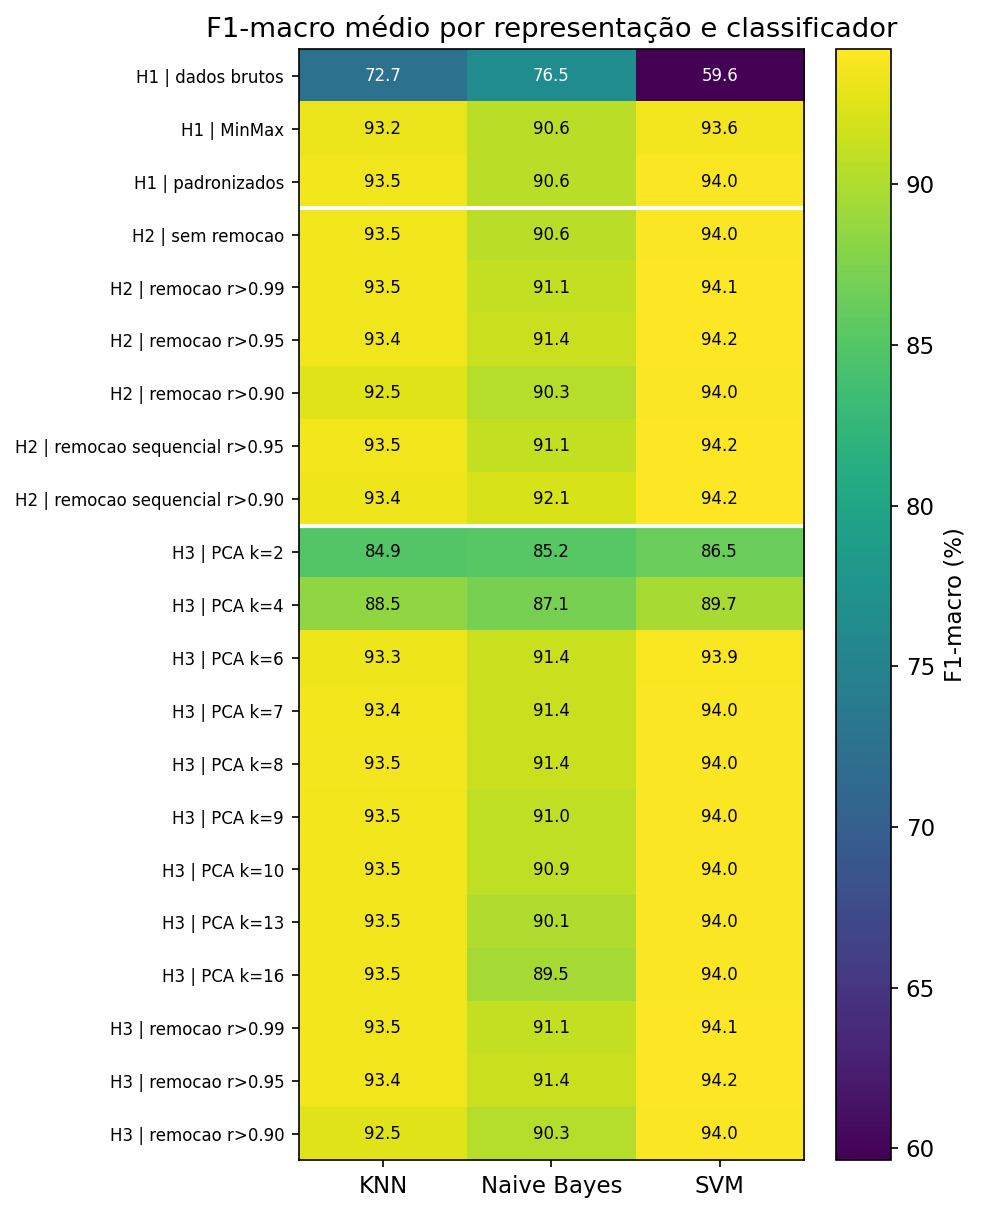
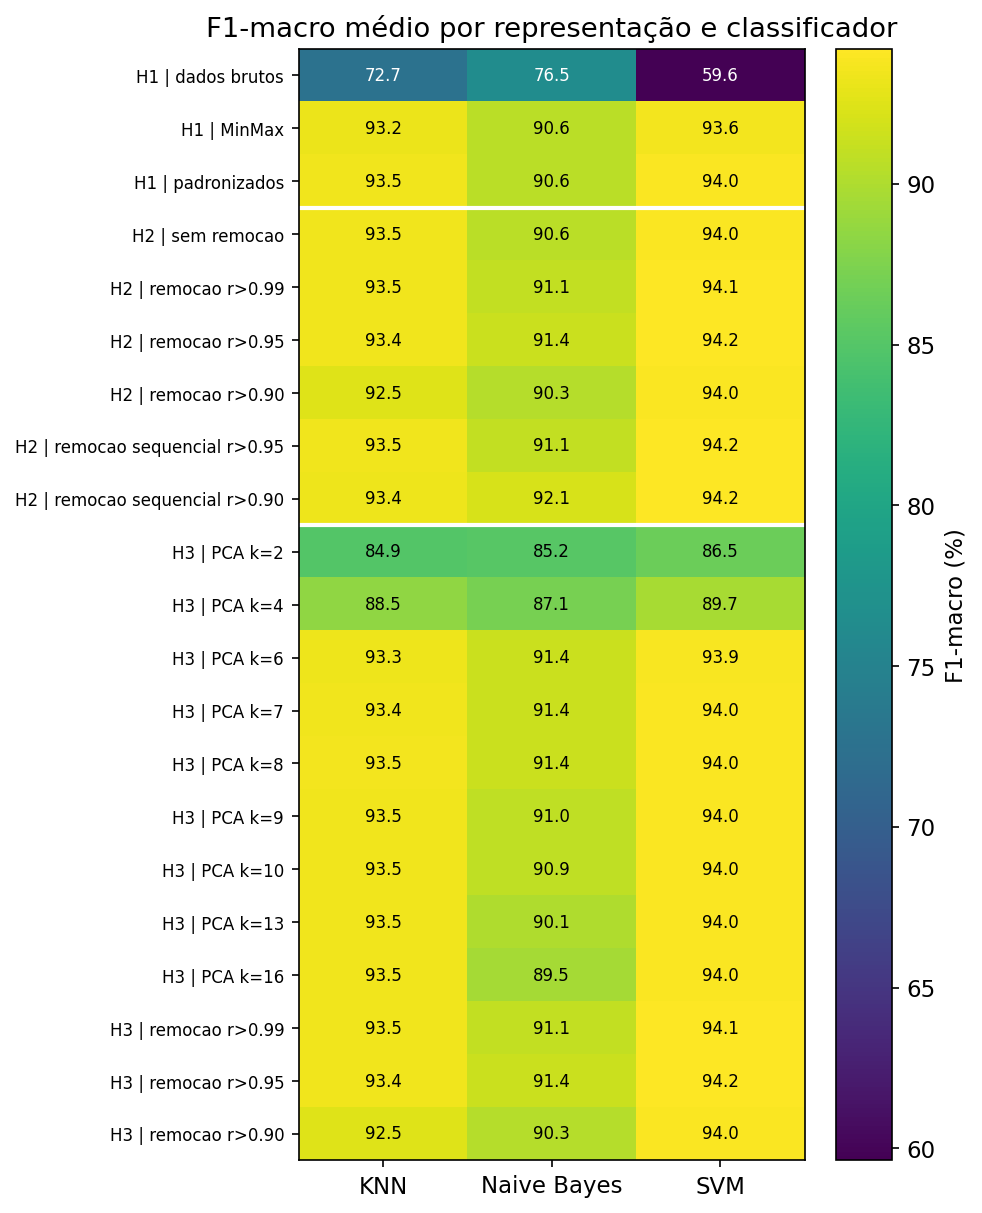
revisao do relatorio e slides: teste t corrigido na H3 e ajustes
- comparacao geral: "Melhor H3" escolhe so entre as representacoes de PCA
- analise H3: teste t corrigido de Nadeau e Bengio (mesmo da H2)
- relatorio e slides: NB d=9 sem significancia, H2 confirmada so em 0,99 e 0,95,
  ganho da escala de 21 a 34 p.p., ressalva para k<=4 e pequenos ajustes de texto

diff --git a/relatorio.tex b/relatorio.tex
@@ -55,14 +55,15 @@ todos com hiperparâmetros padrão (sem ajuste, limitação discutida na Seção
     \item \textbf{H2 (redundância):} remoção do segundo atributo de cada par com correlação de Pearson $|r|>0{,}99$, $0{,}95$ e $0{,}90$ sobre os dados 
     padronizados, comparada aos 16 atributos padronizados. Como controles, avaliamos 20 remoções aleatórias do mesmo tamanho e uma variante sequencial da 
     regra (que compara cada atributo apenas com os já mantidos).
-    \item \textbf{H3 (PCA vs.\ remoção):} PCA com o mesmo número de dimensões restante em cada limiar da H2.
+    \item \textbf{H3 (PCA vs.\ remoção):} PCA sobre os dados padronizados com $k \in \{2, 4, 6, 7, 8, 9, 10, 13, 16\}$
+    componentes, incluindo o mesmo número de dimensões restante em cada limiar da H2 (7, 9 e 13).
 \end{itemize}
 
 \textbf{Protocolo e métricas.} Adotamos validação cruzada estratificada com 5 \textit{folds} e 3 repetições (15 execuções por configuração; 
 \texttt{random\_state=42}), com todas as transformações ajustadas apenas no treino de cada \textit{fold} dentro de um \texttt{Pipeline}. Reportamos 
 média $\pm$ desvio padrão (DP) do F1-macro (métrica principal), além de acurácia, tempo de treino/predição e matrizes de confusão agregadas. As 
-comparações pareadas \textit{fold} a \textit{fold} usam o teste $t$ corrigido de Nadeau e Bengio~\cite{nadeau2003} na H2 ($p<0{,}05$) e o teste 
-de Wilcoxon na H3.
+comparações pareadas \textit{fold} a \textit{fold} da H2 e da H3 usam o teste $t$ corrigido de Nadeau e Bengio~\cite{nadeau2003} ($p<0{,}05$),
+que considera a dependência entre \textit{folds} causada pela sobreposição dos conjuntos de treino.
 
 %% ====================================================================
 \section{Resultados e Discussão}
@@ -104,10 +105,11 @@ o KNN ganhou $+20{,}81$~p.p.\ com menor variância entre \textit{folds}.
 
 \textbf{Naive Bayes e avaliação da H1.} O ganho de $+14{,}13$~p.p.\ na configuração padrão decorre de um artefato numérico do \texttt{var\_smoothing=1e-9}, 
 que soma $10^{-9}$ da maior variância (\texttt{ConvexArea}, $8{,}9\times 10^8$) a todos os atributos, distorcendo variáveis decimais. Com 
-\texttt{var\_smoothing=0}, o desempenho é idêntico nas três escalas ($90{,}63\% \pm 0{,}56\%$). A H1 é confirmada teoricamente, mas a padronização 
-segue recomendável na prática para neutralizar esse viés em bases com variâncias heterogêneas.
+\texttt{var\_smoothing=0}, o desempenho é idêntico nas três escalas ($90{,}63\% \pm 0{,}56\%$). Com a configuração padrão, o critério de refutação
+seria atingido; isolado esse artefato, a H1 é confirmada. Ainda assim, a padronização segue recomendável na prática para neutralizar esse viés em bases
+com variâncias heterogêneas.
 
-\subsection{Remoção de atributos redundantes (H2)}
+\subsection{Remoção de atributos redundantes (H2)}\label{sec:h2}
 % Pessoa 2. Código: codigos/h2_remocao.py e codigos/analise_h2.py.
 
 Aplicada aos 16 atributos padronizados, a regra de correlação mantém 13, 9 e 7 atributos nos limiares $|r|>0{,}99$, $0{,}95$ e $0{,}90$ 
@@ -133,13 +135,13 @@ entre $-0{,}10$ e $+0{,}16$~p.p.\ (sem significância), frente a perdas médias 
 \textbf{Limiar $0{,}90$ e avaliação da H2.} Em $|r|>0{,}90$, o KNN perde $0{,}99$~p.p.\ ($p<0{,}001$, confundindo Dermason com Sira) e o ganho do Naive 
 Bayes desaparece devido a uma remoção em cadeia: \texttt{ShapeFactor1} é descartado por correlação com \texttt{MinorAxisLength} (que também sai), embora 
 tenha $|r|\le 0{,}85$ com os atributos mantidos. A variante sequencial (8 atributos) preserva \texttt{ShapeFactor1}, mantém KNN e SVM estáveis ($-0{,}13$ 
-e $+0{,}18$~p.p.) e produz o maior ganho do Naive Bayes ($+1{,}43$~p.p., 15/15 \textit{folds}). A H2 é confirmada, mas com efeito pequeno ($0{,}45$ a 
-$1{,}43$~p.p.) e sensível à regra gulosa de descarte.
+e $+0{,}18$~p.p.) e produz o maior ganho do Naive Bayes ($+1{,}43$~p.p., 15/15 \textit{folds}). A H2 é confirmada nos limiares $0{,}99$ e $0{,}95$ e refutada em
+$0{,}90$ pela regra original, com efeito pequeno ($0{,}45$ a $1{,}43$~p.p.) e sensível à regra gulosa de descarte.
 
 \subsection{PCA $\times$ remoção de atributos com a mesma dimensão (H3)}
 % Pessoa 3. Figura já inserida; escrever a análise abaixo dela.
-Figura~\ref{fig:h3} compara o PCA (de $k=2$ a $16$ componentes) com a remoção por correlação em igualdade de dimensão ($d \in \{7, 9, 13\}$), avaliada fold a 
-fold pelo teste pareado de Wilcoxon.
+A Figura~\ref{fig:h3} compara o PCA (de $k=2$ a $16$ componentes) com a remoção por correlação em igualdade de dimensão ($d \in \{7, 9, 13\}$), avaliada
+\textit{fold} a \textit{fold} pelo teste $t$ corrigido.
 
 \begin{figure}[htbp]
     \centering
@@ -151,22 +153,22 @@ fold pelo teste pareado de Wilcoxon.
 
 \paragraph{Comparação por dimensão.}
 O PCA superou a remoção apenas na redução mais agressiva ($d=7$, correspondente a $|r|>0{,}90$), com ganhos de $+0{,}89$ p.p.\ no KNN ($93{,}42\%$ vs.\ 
-$92{,}53\%$) e $+1{,}06$ p.p.\ no Naive Bayes ($91{,}39\%$ vs.\ $90{,}33\%$), vencendo em 15 de 15 folds ($p<0{,}001$). Como visto na Seção~3.2, essa 
-vantagem decorre do descarte em cadeia de \texttt{ShapeFactor1} pela regra de remoção; na variante sequencial ($d=8$), a remoção empata com o PCA no 
+$92{,}53\%$) e $+1{,}06$ p.p.\ no Naive Bayes ($91{,}39\%$ vs.\ $90{,}33\%$), vencendo em 15 de 15 \textit{folds} ($p<0{,}001$). Como visto na
+Seção~\ref{sec:h2}, essa vantagem decorre do descarte em cadeia de \texttt{ShapeFactor1} pela regra de remoção; na variante sequencial ($d=8$), a remoção empata com o PCA no 
 KNN e no SVM e o supera no Naive Bayes ($+0{,}70$ p.p.). Com $d=9$ ($|r|>0{,}95$) e $d=13$ ($|r|>0{,}99$), o ganho do PCA no KNN cai para no máximo 
-$+0{,}11$ p.p., o SVM apresenta diferenças irrelevantes na prática ($\le 0{,}16$ p.p., com leve vantagem da remoção) e o cenário se inverte no Naive 
-Bayes, no qual a remoção supera o PCA em $0{,}42$ p.p.\ ($d=9$, $p=0{,}01$) e $0{,}98$ p.p.\ ($d=13$, $p<0{,}001$).
+$+0{,}11$ p.p., o SVM apresenta diferenças irrelevantes na prática ($\le 0{,}16$ p.p., sem significância) e o cenário se inverte no Naive
+Bayes: em $d=9$ a remoção fica à frente por $0{,}42$ p.p., sem significância ($p=0{,}17$), e em $d=13$ supera o PCA em $0{,}98$ p.p.\ ($p<0{,}01$).
 
 \paragraph{Compressão e comportamento do Naive Bayes.}
 A base admite forte compressão: com apenas $k=6$ componentes principais, nenhum classificador perde mais de $0{,}25$ p.p.\ em relação aos 16 atributos 
-padronizados (KNN em $93{,}30\%$ e SVM em $93{,}92\%$), enquanto o Naive Bayes atinge seu pico no PCA ($91{,}42\%$, $+0{,}79$ p.p.). Abaixo disso 
+padronizados (KNN em $93{,}30\%$ e SVM em $93{,}92\%$), enquanto o Naive Bayes atinge seu pico no PCA ($91{,}42\%$, $+0{,}78$ p.p.). Abaixo disso 
 ($k=2$ e $4$), todos degradam acentuadamente. Com $k=16$ (rotação ortogonal sem descarte), KNN e SVM reproduzem exatamente os resultados padronizados 
 por serem invariantes à rotação, mas o Naive Bayes cai para $89{,}49\%$: os últimos componentes carregam pouca variância e mais ruído, porém recebem o 
-mesmo peso no produto das verossimilhanças, o que explica a desvantagem do PCA em $d=9$ e $13$.
+mesmo peso no produto das verossimilhanças, o que provavelmente explica a desvantagem do PCA em $d=9$ e $13$ (hipótese não testada diretamente).
 
 \paragraph{Avaliação da H3.}
 Parcialmente confirmada: o PCA só supera a remoção quando esta precisa descartar atributos informativos ($d=7$). Quando apenas redundâncias são 
-eliminadas ($d=9$ e $13$), as técnicas empatam no KNN e no SVM e a remoção supera o PCA no Naive Bayes.
+eliminadas ($d=9$ e $13$), as técnicas empatam no KNN e no SVM, e no Naive Bayes a remoção empata ($d=9$) ou supera o PCA ($d=13$).
 
 %% ---------------------------------------------------------------------
 \subsection{Comparação geral}\label{sec:geral}
@@ -179,8 +181,9 @@ medido sobre os dados padronizados).
 
 \input{resultados/geral/tabela_melhores.tex}
 
-Há uma hierarquia clara: a escala é o fator dominante ($+14$ a $+34$~p.p.), enquanto a redução de dimensionalidade altera o desempenho em no máximo 
-$1{,}4$~p.p. Apenas o Naive Bayes obtém ganho relevante ($+1{,}43$~p.p.\ na H2; $+0{,}78$~p.p.\ na H3); no KNN e no SVM, as variações ($\le 0{,}18$~p.p.) 
+Há uma hierarquia clara: a escala é o fator dominante ($+21$ a $+34$~p.p.\ no KNN e no SVM), enquanto as reduções de dimensionalidade que preservam a
+informação (PCA com $k \ge 6$ e remoção sem descarte em cadeia) alteram o desempenho em no máximo $1{,}4$~p.p.; com $k \le 4$, todos os classificadores
+perdem de $3{,}6$ a $8{,}6$~p.p. Apenas o Naive Bayes obtém ganho relevante ($+1{,}43$~p.p.\ na H2; $+0{,}78$~p.p.\ na H3); no KNN e no SVM, as variações ($\le 0{,}18$~p.p.) 
 ficam abaixo do desvio entre \textit{folds}. Ainda assim, a base admite forte compressão -- com 6 componentes principais, nenhum modelo perde mais de 
 $0{,}25$~p.p.\ -- graças à redundância dos atributos (remoções aleatórias pioram todos os classificadores). Por fim, a representação pesou mais que a 
 escolha do classificador: nos dados brutos, o F1-macro varia 17~p.p.\ entre modelos (SVM em último); após padronização, a diferença cai para menos de 
@@ -193,7 +196,7 @@ O estudo avaliou o impacto da representação dos dados sobre KNN, Naive Bayes e
 
 \begin{itemize}
     \item \textbf{H1 (confirmada):} a padronização foi decisiva para KNN ($+20{,}8$~p.p.) e SVM ($+34{,}4$~p.p.); o Naive Bayes só variou pelo artefato numérico do \texttt{var\_smoothing} e permaneceu invariante sem ele.
-    \item \textbf{H2 (confirmada, efeito pequeno):} remover apenas redundâncias melhorou o Naive Bayes ($+0{,}45$ a $+1{,}43$~p.p.) sem alterar KNN e SVM, exceto quando houve descarte em cadeia em $|r|>0{,}90$.
+    \item \textbf{H2 (confirmada em $|r|>0{,}99$ e $0{,}95$, efeito pequeno):} remover apenas redundâncias melhorou o Naive Bayes ($+0{,}45$ a $+1{,}43$~p.p.) sem alterar KNN e SVM, exceto quando houve descarte em cadeia em $|r|>0{,}90$.
     \item \textbf{H3 (parcialmente confirmada):} o PCA superou a remoção apenas com 7 dimensões (devido ao descarte em cadeia); sem esse efeito, a remoção igualou ou superou o PCA.
 \end{itemize}
 

diff --git a/slides.tex b/slides.tex
@@ -169,7 +169,7 @@ no desempenho de classificadores}
     \item Também: acurácia, tempo e matrizes de confusão
     \item Resultados como média $\pm$ desvio padrão
     \item Mesmas divisões para tudo: comparação pareada por \emph{fold}
-      ($t$ corrigido na H2, Wilcoxon na H3)
+      (teste $t$ corrigido de Nadeau e Bengio na H2 e na H3)
   \end{itemize}
 \end{frame}
 
@@ -198,7 +198,8 @@ no desempenho de classificadores}
     \item O ganho de +14,1 p.p.\ do Naive Bayes padrão é um \alert{artefato do \texttt{var\_smoothing}}
   \end{itemize}
   \begin{block}{Avaliação}
-    H1 \textbf{confirmada}: KNN e SVM dependem da escala; o Naive Bayes é invariante a ela.
+    H1 \textbf{confirmada} (isolado o artefato do \texttt{var\_smoothing}): KNN e SVM dependem da escala;
+    o Naive Bayes é invariante a ela.
   \end{block}
 \end{frame}
 
@@ -231,7 +232,8 @@ no desempenho de classificadores}
     \item Em $|r|>0{,}90$ o KNN perde 0,99 p.p.: \texttt{ShapeFactor1} sai \alert{em cadeia}
   \end{itemize}
   \begin{block}{Avaliação}
-    H2 \textbf{confirmada}, com efeito pequeno (da ordem do desvio entre \emph{folds}).
+    H2 \textbf{confirmada} em $|r|>0{,}99$ e $0{,}95$ e refutada em $0{,}90$, com efeito pequeno
+    (da ordem do desvio entre \emph{folds}).
   \end{block}
 \end{frame}
 
@@ -263,8 +265,9 @@ no desempenho de classificadores}
 
   \raggedright
   \begin{itemize}
-    \item Com 7 dimensões, o PCA vence em 15/15 \emph{folds} no KNN e no NB (Wilcoxon, $p<0{,}001$)
-    \item Com menos remoção, a vantagem some ou se inverte; no SVM tudo fica abaixo de 0,2 p.p.
+    \item Com 7 dimensões, o PCA vence em 15/15 \emph{folds} no KNN e no NB ($t$ corrigido, $p<0{,}001$)
+    \item Com menos remoção, a vantagem some ou se inverte (NB com 13 dim.: remoção melhor, $p<0{,}01$);
+      no SVM tudo fica abaixo de 0,2 p.p.
   \end{itemize}
   \begin{block}{Avaliação}
     H3 \textbf{parcialmente confirmada}: o PCA só ajuda quando a remoção descarta atributos informativos
@@ -286,8 +289,9 @@ no desempenho de classificadores}
     \begin{column}{0.36\textwidth}
       \small
       \begin{itemize}
-        \item Escala: ganho de \textbf{14 a 34 p.p.}
-        \item Depois de padronizar, PCA e remoção mudam \textbf{no máximo 1,4 p.p.}
+        \item Escala: ganho de \textbf{21 a 34 p.p.}\ no KNN e no SVM
+        \item Depois de padronizar, reduções que preservam a informação mudam \textbf{no máximo 1,4 p.p.}
+          (com $k\leq4$, perda de 3,6 a 8,6 p.p.)
         \item Só o Naive Bayes ganha algo: +1,4 p.p.\ tirando redundância (H2), +0,8 p.p.\ com PCA (H3)
         \item Remoção aleatória piora: o ganho vem da \textbf{redundância}
         \item 6 componentes bastam: perda $\leq$ 0,25 p.p.
@@ -299,7 +303,7 @@ no desempenho de classificadores}
 \begin{frame}{Conclusão}
   % Pessoa 5
   \begin{itemize}
-    \item \textbf{H1 confirmada} \quad \textbf{H2 confirmada} \quad
+    \item \textbf{H1 confirmada} \quad \textbf{H2 confirmada} (0,99 e 0,95) \quad
       \textbf{H3 parcialmente confirmada}
     \item A \textbf{representação pesou mais que o classificador}:
       \begin{itemize}

diff --git a/codigos/analise_h3.py b/codigos/analise_h3.py
@@ -10,7 +10,7 @@ import numpy as np
 import pandas as pd
 import matplotlib.pyplot as plt
 import seaborn as sns
-from scipy.stats import wilcoxon
+from scipy.stats import wilcoxon, t as dist_t
 from sklearn.model_selection import StratifiedKFold
 from sklearn.pipeline import Pipeline
 from sklearn.preprocessing import StandardScaler
@@ -74,7 +74,22 @@ tabela_resumo.to_csv(os.path.join(RESULTS_PATH, "tabela_resumo_H3.csv"), index=F
 # ==============================================================================
 # 4. TABELA PRINCIPAL: PCA × remoção com o mesmo número de dimensões
 #    Comparação pareada fold a fold (mesmas divisões, random_state=42).
+#    Teste principal: t corrigido de Nadeau e Bengio (2003), o mesmo da H2. Ele
+#    considera que os folds não são independentes (os treinos se sobrepõem).
+#    O Wilcoxon fica só como referência (ignora essa dependência, p otimista).
 # ==============================================================================
+N_TESTE_SOBRE_TREINO = 1 / 4  # 5 folds: teste = 1/5 da base, treino = 4/5
+
+
+def t_corrigido(dif):
+    n = len(dif)
+    var_corrigida = (1 / n + N_TESTE_SOBRE_TREINO) * dif.var(ddof=1)
+    if var_corrigida == 0:
+        return np.nan, np.nan
+    t = dif.mean() / np.sqrt(var_corrigida)
+    return t, 2 * dist_t.sf(abs(t), n - 1)
+
+
 linhas = []
 for rep_rem, k in n_remocao.items():
     rep_pca = f'PCA k={k}'
@@ -90,6 +105,7 @@ for rep_rem, k in n_remocao.items():
             p = wilcoxon(dif).pvalue
         except ValueError:
             p = np.nan  # todas as diferenças iguais a zero
+        t_c, p_c = t_corrigido(dif)
         linhas.append({
             'classificador': clf,
             'dimensoes': k,
@@ -99,7 +115,9 @@ for rep_rem, k in n_remocao.items():
             'diferença PCA - remoção (p.p.)': dif.mean(),
             'desvio da diferença (p.p.)': dif.std(),
             'folds com PCA melhor': f"{(dif > 0).sum()}/{len(dif)}",
-            'p-valor Wilcoxon': p
+            't corrigido': t_c,
+            'p t corrigido': p_c,
+            'p Wilcoxon': p
         })
 
 tabela_comp = pd.DataFrame(linhas).sort_values(['classificador', 'dimensoes'])

diff --git a/resultados/geral/tabela_melhores.tex b/resultados/geral/tabela_melhores.tex
@@ -9,7 +9,7 @@
         \midrule
         KNN & 72,70 & 93,51 (+20,81) & 93,51 (+0,00) \scriptsize[sem remoção] & 93,52 (+0,01) \scriptsize[PCA k=8] \\
         Naive Bayes & 76,50 & 90,63 (+14,13) & 92,06 (+1,43) \scriptsize[remoção sequencial r$>$0{,}90] & 91,42 (+0,78) \scriptsize[PCA k=6] \\
-        SVM & 59,62 & 94,02 (+34,39) & 94,20 (+0,18) \scriptsize[remoção sequencial r$>$0{,}90] & 94,17 (+0,16) \scriptsize[remoção r$>$0{,}95] \\
+        SVM & 59,62 & 94,02 (+34,39) & 94,20 (+0,18) \scriptsize[remoção sequencial r$>$0{,}90] & 94,02 (+0,01) \scriptsize[PCA k=8] \\
         \bottomrule
     \end{tabular}
 \end{table}

diff --git a/codigos/comparacao_geral.py b/codigos/comparacao_geral.py
@@ -120,6 +120,10 @@ for clf in ORDEM_CLF:
     linha['padr_f1'], linha['padr_std'] = pega(g, *REFERENCIA_PADR)
     for hip in hips_tab:
         gh = g[g['hipotese'] == hip]
+        if hip == 'H3':
+            # O CSV da H3 também tem as remoções usadas como comparação; a melhor
+            # representação da H3 deve ser escolhida só entre as de PCA.
+            gh = gh[gh['representacao'].str.startswith('PCA')]
         if gh.empty:
             continue
         melhor = gh.loc[gh['f1_media'].idxmax()]
